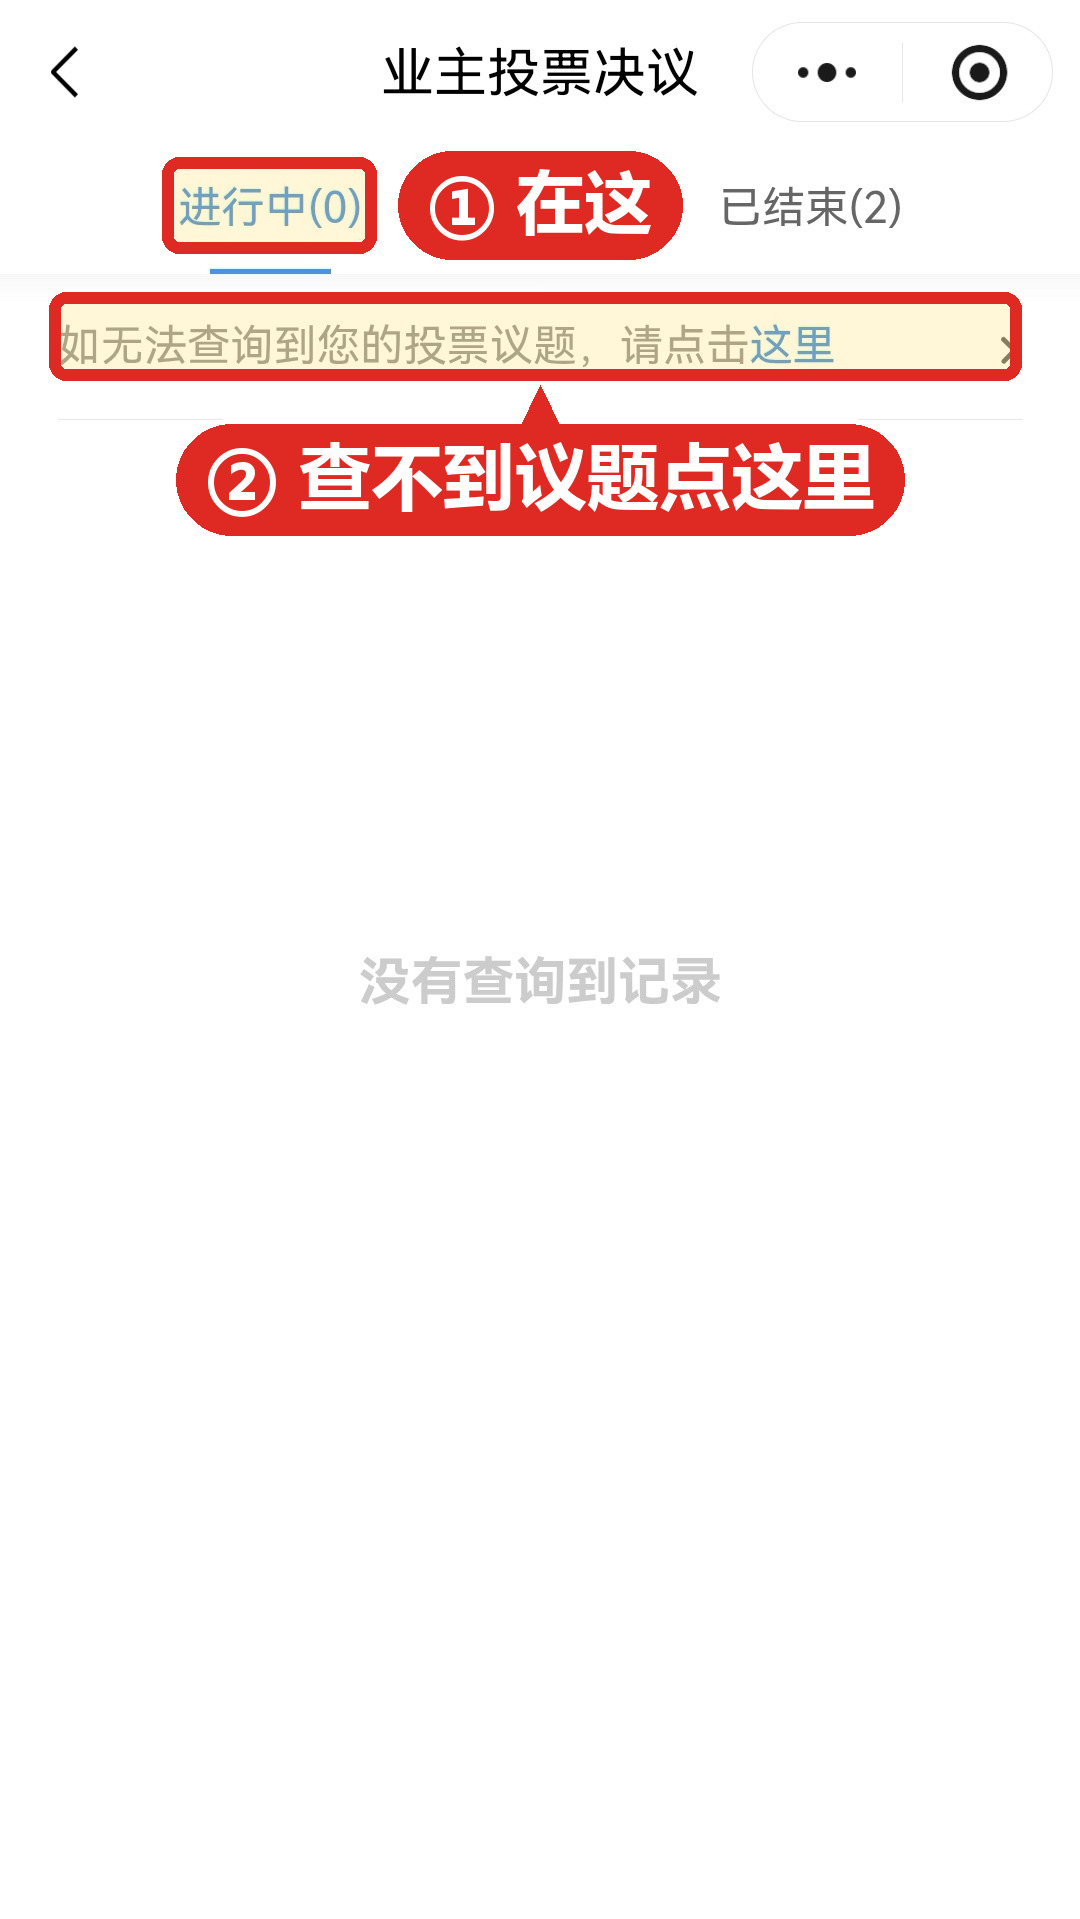
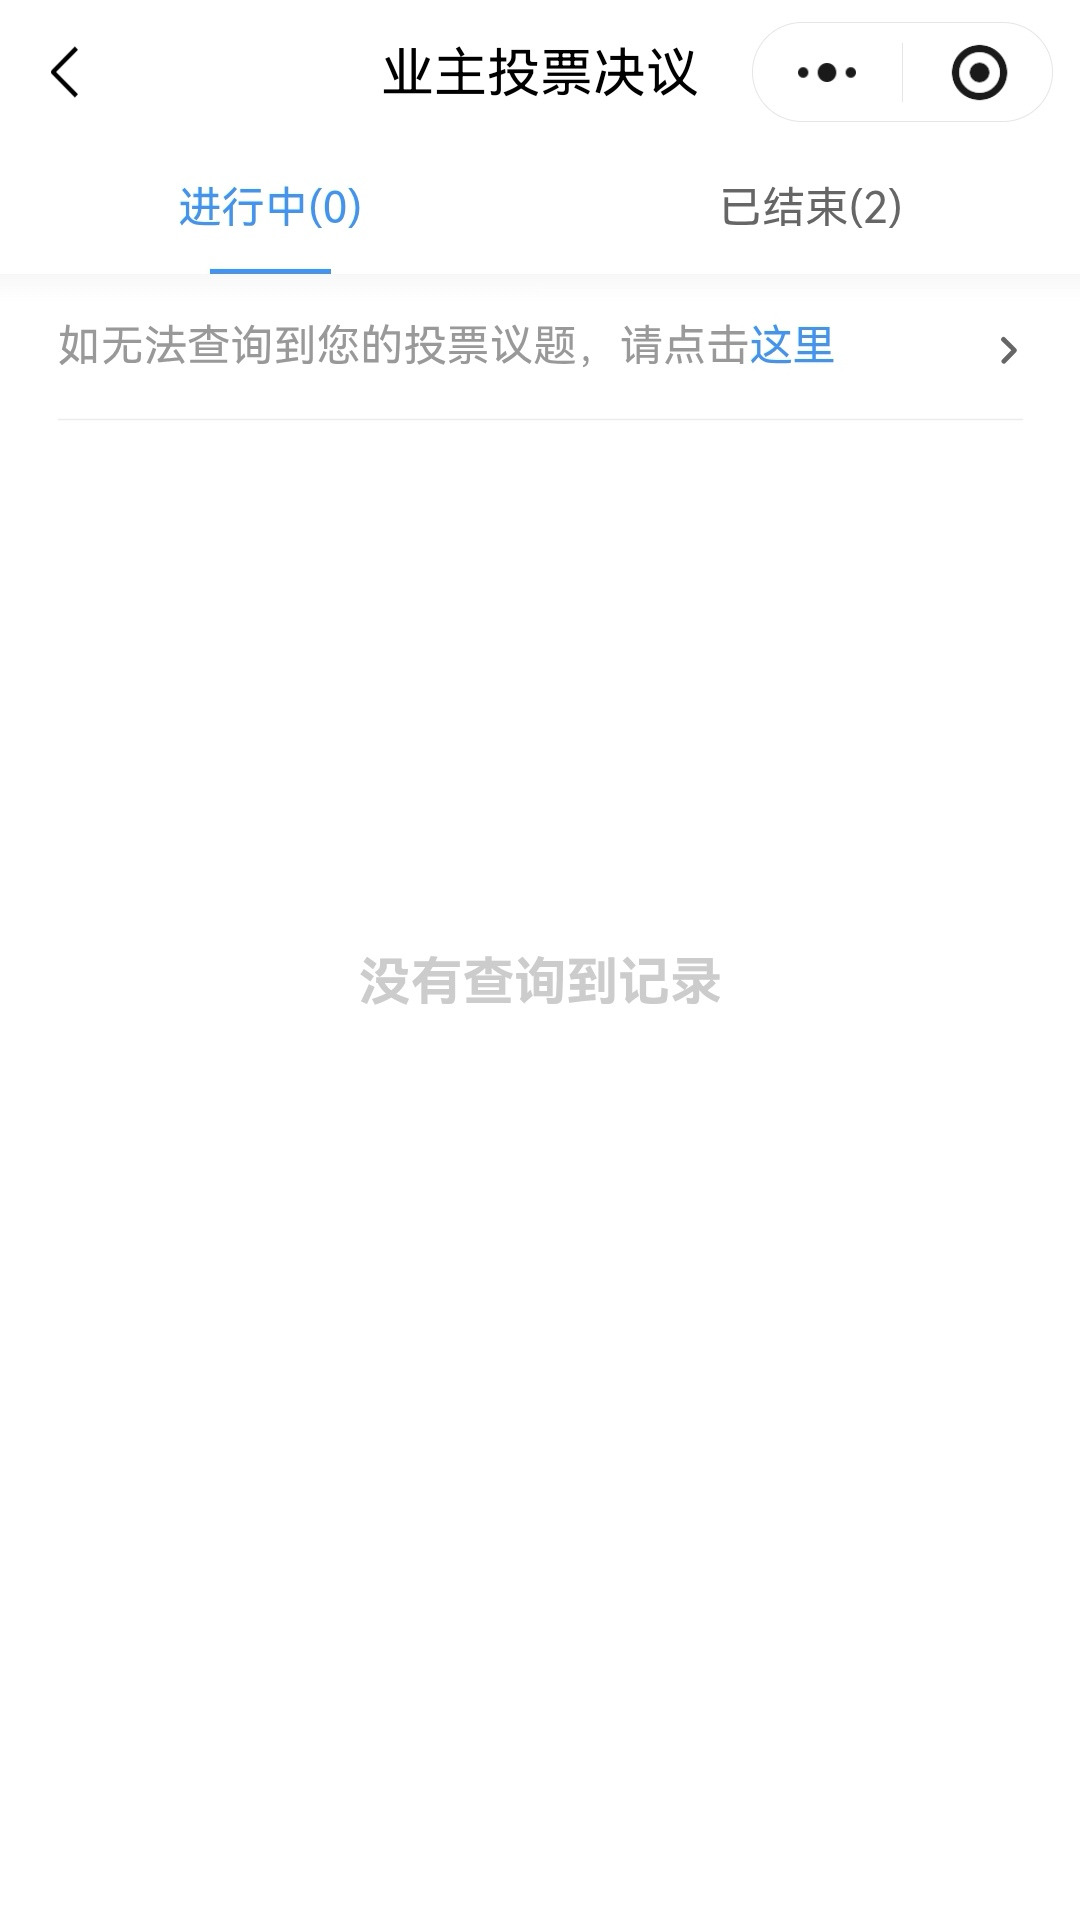
Switch to a blue palette and drop annotations from the blank agenda page

Changed region(s): [[0.0306, 0.0615, 0.9472, 0.2767]]

diff --git a/index.html b/index.html
@@ -7,21 +7,23 @@
 <title>粤省事 · 业主投票操作指引</title>
 <style>
   :root{
-    --paper:#FDF8F1;
+    /* 稳重的蓝色系：深海军蓝做底、钢蓝做强调，冷调浅蓝灰做纸面 */
+    --paper:#F2F6FA;
     --card:#FFFFFF;
-    --ink:#1C1713;
-    --ink-soft:#57504A;
-    --ink-mute:#938A80;
-    --amber:#DE8615;
-    --amber-deep:#A9610A;
-    --amber-soft:#FBEDD6;
-    --brick:#B23A2A;
-    --brick-soft:#FCEDE9;
-    --sage:#2F6B52;
-    --sage-soft:#E8F2EC;
-    --line:#EBE0CD;
+    --ink:#16304A;
+    --ink-soft:#4C6379;
+    --ink-mute:#6E839A;
+    --blue:#2E6DA6;
+    --blue-deep:#1E4E79;
+    --blue-soft:#E5EEF7;
+    --blue-lite:#7FB0DC;   /* 深底上的浅蓝，用于首屏 */
+    --brick:#A8382A;
+    --brick-soft:#FBEDEA;
+    --teal:#1D5C6B;
+    --teal-soft:#E4F0F3;
+    --line:#DCE6F0;
     --radius:18px;
-    --shadow:0 1px 2px rgba(60,40,10,.04), 0 10px 28px -18px rgba(60,40,10,.28);
+    --shadow:0 1px 2px rgba(22,48,74,.05), 0 10px 28px -18px rgba(22,48,74,.30);
     --gutter:18px;
   }
   *{box-sizing:border-box;}
@@ -35,7 +37,7 @@
     line-height:1.75;
     letter-spacing:.01em;
     -webkit-font-smoothing:antialiased;
-    -webkit-tap-highlight-color:rgba(222,134,21,.16);
+    -webkit-tap-highlight-color:rgba(46,109,166,.16);
     overflow-x:hidden;
   }
   img{max-width:100%;}
@@ -43,7 +45,7 @@
 
   /* 键盘可达性：统一的焦点环 */
   a:focus-visible,summary:focus-visible,.shot:focus-visible,button:focus-visible{
-    outline:3px solid var(--amber);
+    outline:3px solid var(--blue);
     outline-offset:3px;
     border-radius:8px;
   }
@@ -51,7 +53,7 @@
   /* ---------- 首屏 ---------- */
   .hero{
     background:var(--ink);
-    color:#FFF8EC;
+    color:#EFF5FA;
     border-radius:0 0 26px 26px;
     /* 与 .wrap 使用同一 gutter，保证首屏文字与正文左对齐 */
     padding:34px var(--gutter) 30px;
@@ -63,7 +65,7 @@
     content:"";
     position:absolute;inset:auto -60px -90px auto;
     width:260px;height:260px;border-radius:50%;
-    background:radial-gradient(circle at 30% 30%, rgba(222,134,21,.42), transparent 68%);
+    background:radial-gradient(circle at 30% 30%, rgba(80,146,204,.45), transparent 68%);
     pointer-events:none;
   }
   .hero > *{position:relative;z-index:1;}
@@ -72,8 +74,8 @@
   .eyebrow{
     display:inline-block;
     font-size:13px;font-weight:600;letter-spacing:.14em;
-    color:var(--amber);
-    border:1px solid rgba(222,134,21,.5);
+    color:var(--blue-lite);
+    border:1px solid rgba(127,176,220,.5);
     border-radius:999px;
     padding:4px 12px;
     margin-bottom:16px;
@@ -87,7 +89,7 @@
   }
   .hero .sub{
     margin:0;
-    color:#C7BCAE;
+    color:#A7BDD2;
     font-size:16px;
   }
   /* 关键信息：自动列数，窄屏 1 列、宽屏自动 2 列 */
@@ -111,7 +113,7 @@
   }
   .fact .k{
     font-size:13px;
-    color:#A99E90;
+    color:#9DB3C8;
     flex:0 0 auto;
     min-width:5em;
     margin:0;
@@ -120,11 +122,11 @@
     margin:0;
     font-size:16.5px;
     font-weight:600;
-    color:#FFF8EC;
+    color:#EFF5FA;
     flex:1 1 auto;
     min-width:0;
   }
-  .fact .v em{color:var(--amber);font-style:normal;}
+  .fact .v em{color:var(--blue-lite);font-style:normal;}
 
   /* ---------- 通用 ---------- */
   .notice{
@@ -135,15 +137,15 @@
     border:1px solid;
   }
   .notice strong{display:block;margin-bottom:4px;font-size:17px;}
-  .notice--brick{background:var(--brick-soft);border-color:#F0CFC7;color:#7A2A1C;}
-  .notice--sage{background:var(--sage-soft);border-color:#CFE3D7;color:#204A38;}
+  .notice--brick{background:var(--brick-soft);border-color:#F0CFC8;color:#7E2C1E;}
+  .notice--info{background:var(--teal-soft);border-color:#C6DFE6;color:#14454F;}
 
   h2.phase{
     display:flex;align-items:center;gap:12px;
     font-size:15px;
     letter-spacing:.1em;
     font-weight:700;
-    color:var(--amber-deep);
+    color:var(--blue-deep);
     margin:44px 0 18px;
   }
   h2.phase::after{
@@ -155,7 +157,7 @@
     display:grid;place-items:center;
     width:26px;height:26px;flex:0 0 26px;
     border-radius:50%;
-    background:var(--amber);color:#fff;
+    background:var(--blue);color:#fff;
     font-size:14px;letter-spacing:0;
   }
 
@@ -172,8 +174,8 @@
   .step-no{
     flex:0 0 34px;width:34px;height:34px;
     border-radius:11px;
-    background:var(--amber-soft);
-    color:var(--amber-deep);
+    background:var(--blue-soft);
+    color:var(--blue-deep);
     display:grid;place-items:center;
     font-weight:700;font-size:15px;
     font-variant-numeric:tabular-nums;
@@ -202,13 +204,13 @@
     margin:0;
     border-radius:14px;
     border:1px solid var(--line);
-    box-shadow:0 2px 4px rgba(60,40,10,.05), 0 18px 36px -26px rgba(60,40,10,.5);
-    background:#F3F1EE;
+    box-shadow:0 2px 4px rgba(22,48,74,.06), 0 18px 36px -26px rgba(22,48,74,.45);
+    background:#EDF2F7;
     cursor:zoom-in;
     transition:transform .25s cubic-bezier(.22,.7,.3,1), box-shadow .25s ease;
   }
   @media (hover:hover){
-    .shot:hover{transform:translateY(-3px);box-shadow:0 4px 8px rgba(60,40,10,.06), 0 26px 46px -26px rgba(60,40,10,.55);}
+    .shot:hover{transform:translateY(-3px);box-shadow:0 4px 8px rgba(22,48,74,.08), 0 26px 46px -26px rgba(22,48,74,.5);}
   }
   /* 放大提示放在图片下方，不覆盖在图上。
      若浮在右下角，它会压住部分截图底部的操作按钮（如「下一步」「开始办理」），
@@ -218,8 +220,8 @@
     width:max-content;
     max-width:100%;
     margin:9px auto 0;
-    background:rgba(28,23,19,.72);
-    color:#FFF3E2;
+    background:rgba(16,38,58,.78);
+    color:#EAF2FA;
     font-size:12.5px;
     line-height:1;
     padding:6px 11px;
@@ -236,7 +238,7 @@
   /* ---------- 点击放大 ---------- */
   .zoom{
     position:fixed;inset:0;z-index:120;
-    background:rgba(18,13,9,.93);
+    background:rgba(10,22,36,.94);
     display:none;
     align-items:center;justify-content:center;
     padding:16px;
@@ -252,7 +254,7 @@
   }
   .zoom .cap{
     position:absolute;left:0;right:0;bottom:14px;
-    text-align:center;color:#D8CDBD;font-size:14px;
+    text-align:center;color:#CFDCE8;font-size:14px;
     padding:0 20px;
   }
   .zoom .close{
@@ -291,7 +293,7 @@
     content:"";
     position:absolute;left:2px;top:.62em;
     width:6px;height:6px;border-radius:50%;
-    background:var(--amber);
+    background:var(--blue);
   }
   ul.list li b{color:var(--ink);font-weight:600;}
 
@@ -302,7 +304,7 @@
     margin-bottom:10px;
     overflow:hidden;
   }
-  details.faq[open]{border-color:#E0CFB2;}
+  details.faq[open]{border-color:#BBD3E7;}
   details.faq summary{
     cursor:pointer;
     list-style:none;
@@ -317,8 +319,8 @@
     content:"";
     position:absolute;right:19px;top:50%;
     width:8px;height:8px;
-    border-right:2px solid var(--amber);
-    border-bottom:2px solid var(--amber);
+    border-right:2px solid var(--blue);
+    border-bottom:2px solid var(--blue);
     transform:translateY(-70%) rotate(45deg);
     transition:transform .22s ease;
   }
@@ -445,7 +447,7 @@
     在 9 月 15 日 10:00 之前进入，议题列表会显示「没有查询到记录」，属正常现象，不必担心。
   </div>
 
-  <div class="notice notice--sage reveal">
+  <div class="notice notice--info reveal">
     <strong>一句话看懂 · 图中红框就是要点的位置</strong>
     微信打开粤省事并确认城市是「惠州」→ 搜索「业主」→ 点开「业主投票决议」→ 刷脸认证 → 点「开始投票」→ 在「进行中」里选择你认可的物业服务企业并提交。<b>每张截图都可以点击放大</b>，看不清时点开看。
   </div>
@@ -601,12 +603,12 @@
         <span class="step-no">11</span>
         <h3 class="step-title">在「进行中」里选择你认可的物业企业</h3>
       </div>
-      <p class="step-desc">进入议题列表，分为「<b>进行中</b>」和「<b>已结束</b>」两个页签。投票开放前「进行中」为 0 项，显示「没有查询到记录」；<b>9 月 15 日 10:00 以后</b>，本次议题就会出现在「进行中」页签下。<b>点开议题，选择你心仪的物业服务企业，按页面提示提交即可。</b></p>
+      <p class="step-desc">进入后是「业主投票决议」的<b>议题列表页</b>，上方有「<b>进行中</b>」和「<b>已结束</b>」两个页签。投票开放前，<b>「进行中」显示 0 项、页面写着「没有查询到记录」，这是正常的</b>。<b>9 月 15 日 10:00 以后</b>，本次议题就会出现在「进行中」页签下——<b>点开议题，选择你心仪的物业服务企业，按页面提示提交即可</b>。若届时仍查不到议题，列表上方有一行「如无法查询到您的投票议题，请点击这里」，点它按提示处理。</p>
       <div class="shot-box">
         <img class="shot" loading="lazy" decoding="async" src="11_议题列表页_进行中0项暂无记录.jpg" alt="议题列表进行中暂无记录" width="576" height="1024">
         <span class="zoom-hint">点击放大</span>
       </div>
-      <p class="shot-note">开放前为空，属正常</p>
+      <p class="shot-note">此图为开放前的状态：进行中 0 项、已结束 2 项</p>
     </article>
 
   </div>
